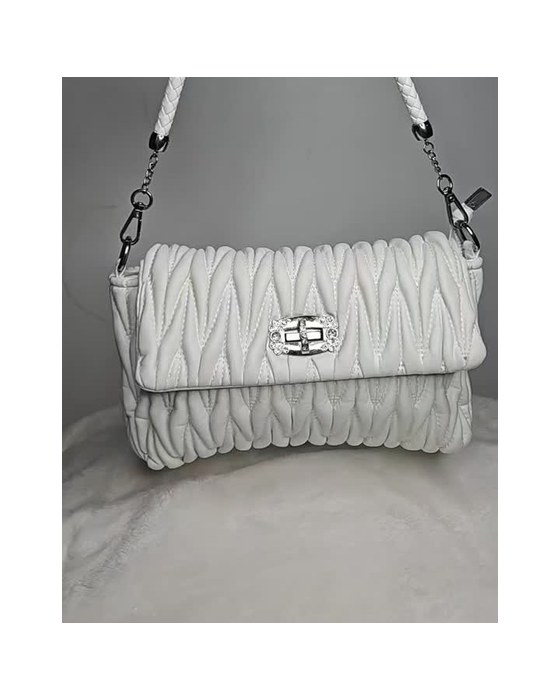
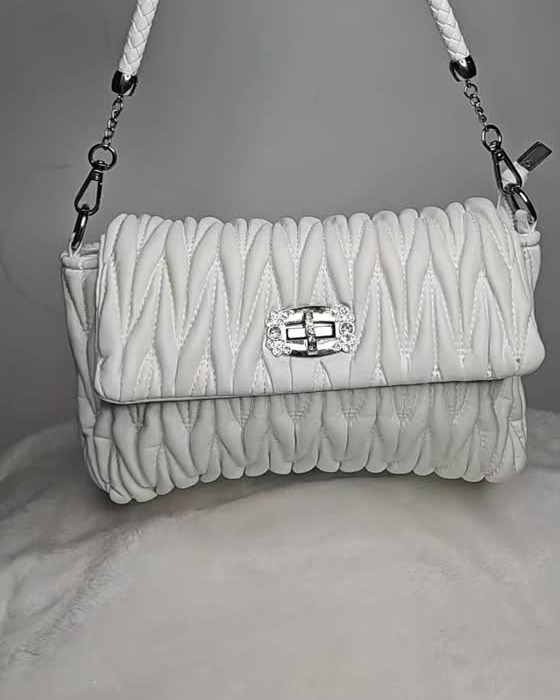
Revert white-margin image edit — use card padding for breathing room instead
The white margins baked into the JPGs created ugly hard edges against
photos with non-white backgrounds. Now the bag photos are unchanged
and the card itself provides padding around them.

diff --git a/styles.css b/styles.css
@@ -261,10 +261,13 @@ img { max-width: 100%; display: block; }
   aspect-ratio: 4 / 5;
   overflow: hidden;
   cursor: zoom-in;
-  background: #f0eae0;
+  background: #fff;
+  padding: 14px 14px 0;
+  box-sizing: border-box;
 }
 .card-img {
   width: 100%; height: 100%; object-fit: cover;
+  border-radius: 8px;
   transition: transform 0.5s;
 }
 .card:hover .card-img { transform: scale(1.04); }

diff --git a/main.js b/main.js
@@ -1,5 +1,5 @@
 // ThriftLux frontend gallery
-const IMG_VERSION = 'v4'; // bump this whenever you re-crop/replace bag images
+const IMG_VERSION = 'v5'; // bump this whenever you re-crop/replace bag images
 const API_BASE = 'https://thriftlux-api.stawisystems.workers.dev';
 (async function() {
   const gallery = document.getElementById('gallery');

diff --git a/index.html b/index.html
@@ -117,6 +117,6 @@
   <div class="lightbox-caption" id="lightboxCaption"></div>
 </div>
 
-<script src="main.js?v=2"></script>
+<script src="main.js?v=3"></script>
 </body>
 </html>
